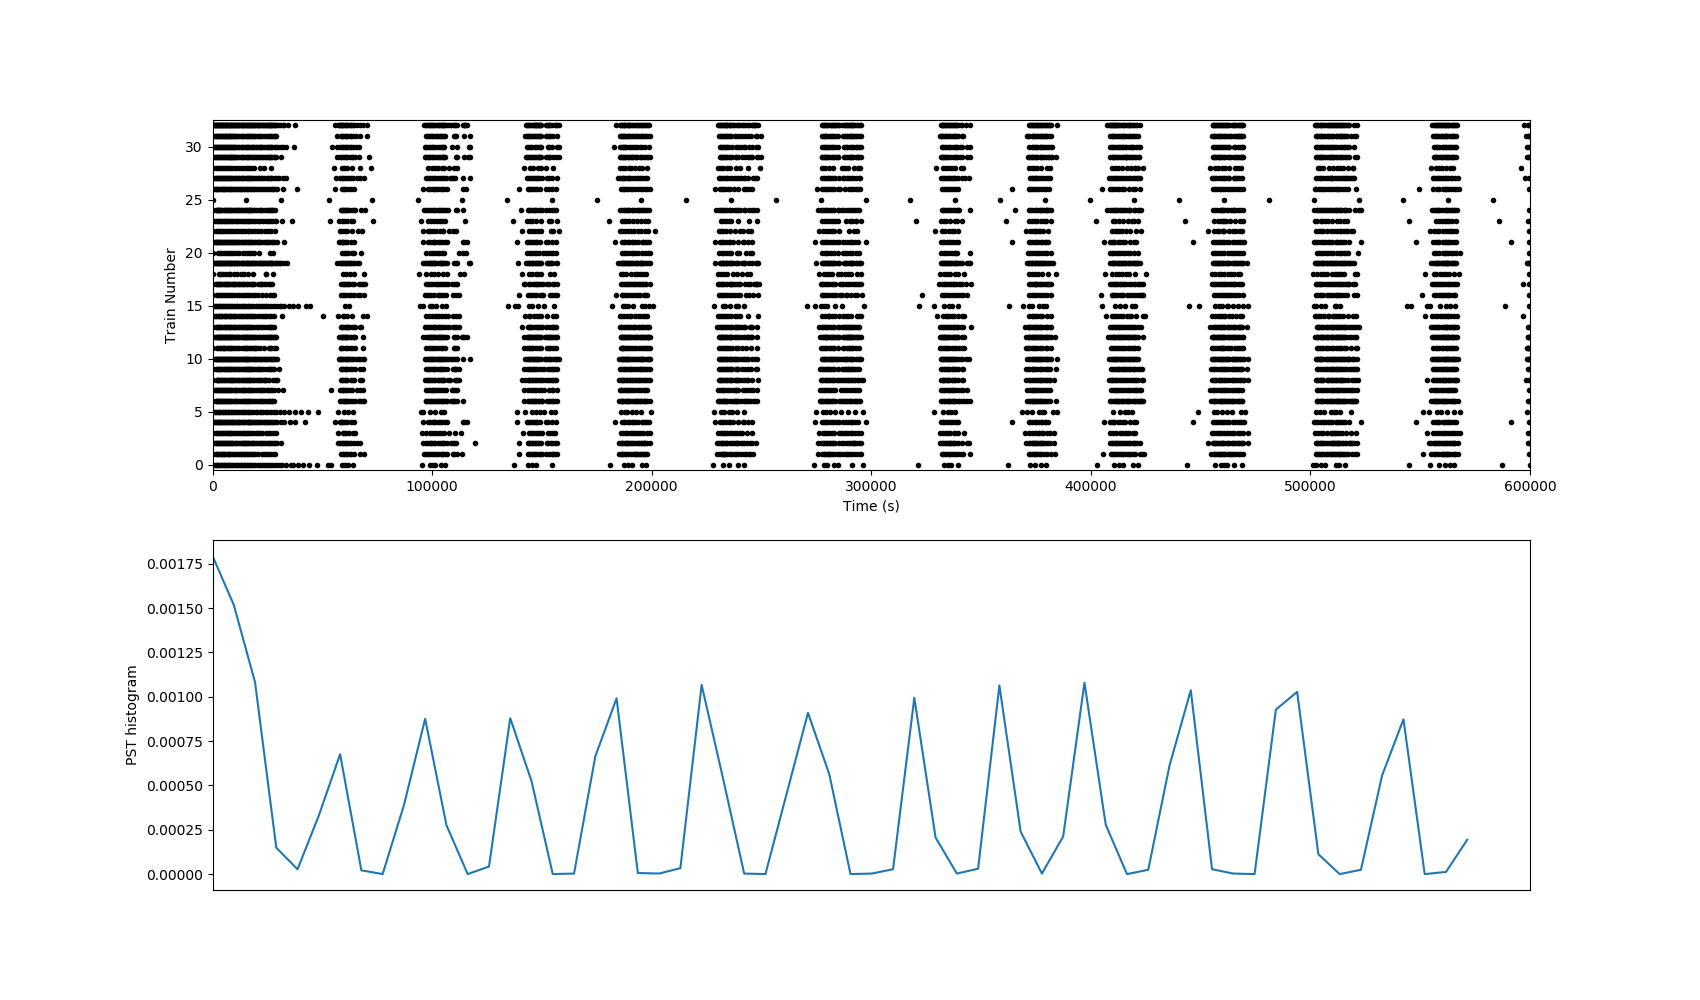
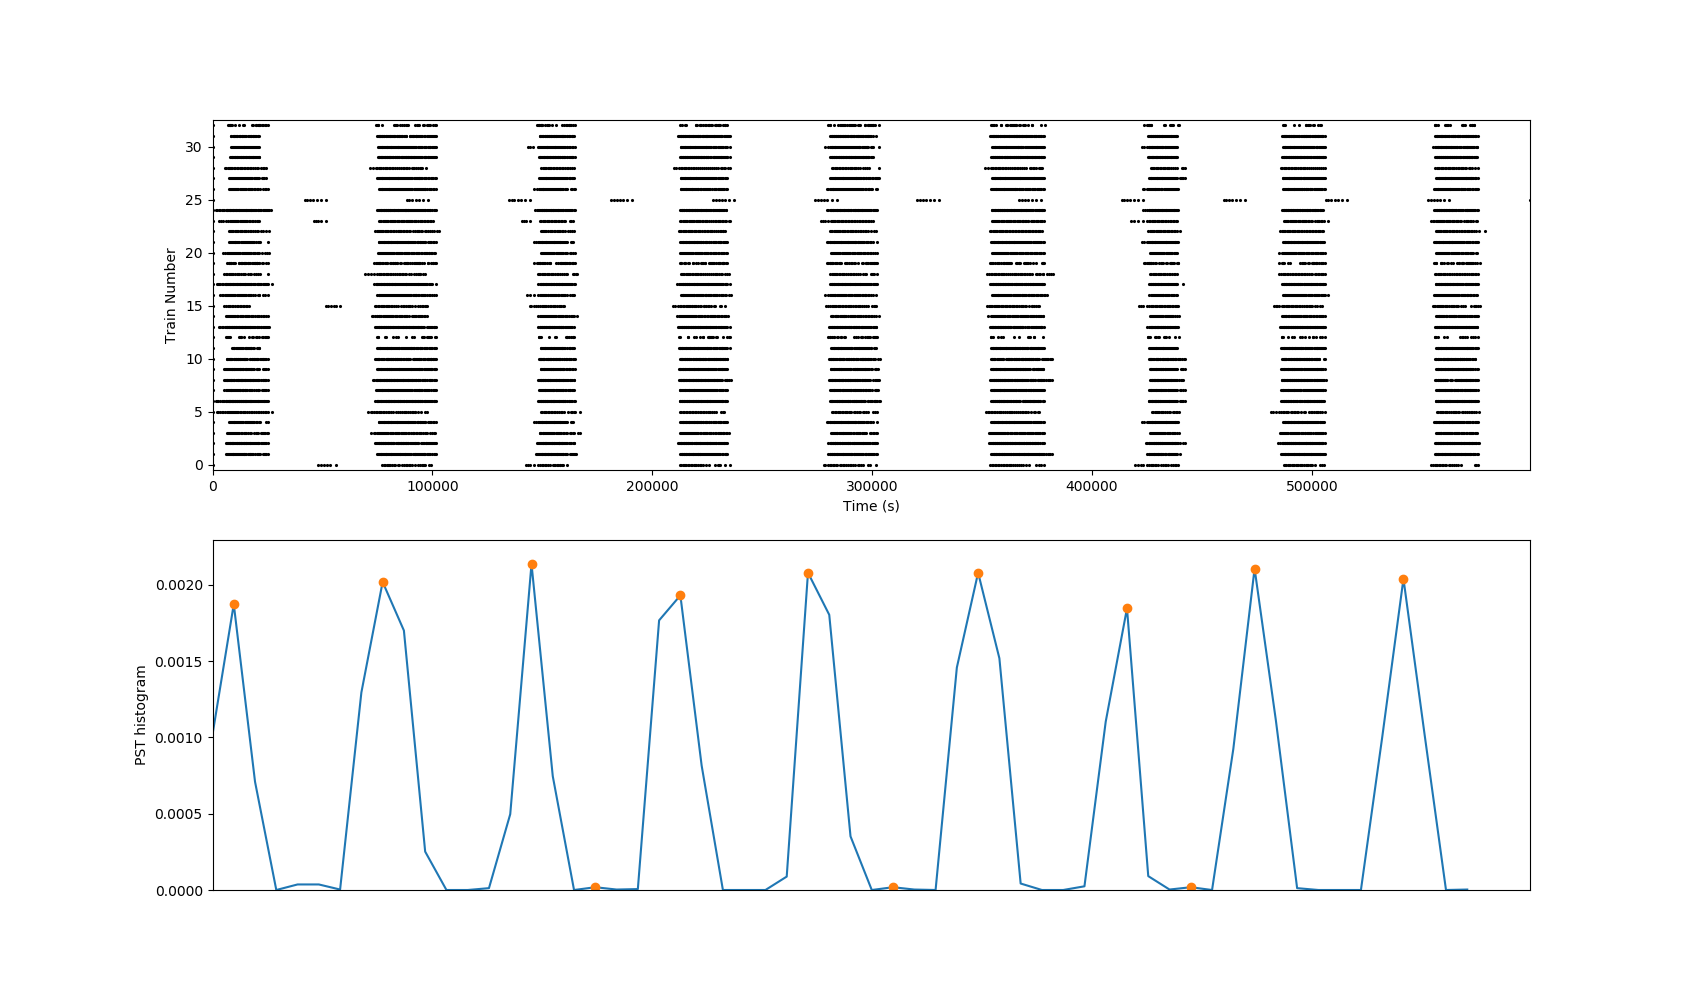
change paramters to fit a paper lmao

diff --git a/code/SPIKE/ablate.py b/code/SPIKE/ablate.py
@@ -167,8 +167,10 @@ M = StateMonitor(G, ['x', 'y', 'z'], record=True)
 
 ix = -0.5*(1+sqrt(5))
 init_cond = {'x': ix, 'y': 1-5*ix*ix, 'z': 1.7}
-neuron_pars = {'a': 1, 'b': 3.3, 'I': 2, 'c': 1, 'd': 5, 'r': 0.001, 's': 4, 'xR': -0.5*(1+sqrt(5))}
-coupling_pars = {'Vo': 2, 'lam': 10, 'thet': -0.2, 'g': 0.4}        # I've been changing g a lot....
+neuron_pars = {'a': 1, 'b': 3, 'I': 1.75, 'c': 1, 'd': 5, 'r': 0.001, 's': 4, 'xR': -0.5*(1+sqrt(5))}
+coupling_pars = {'Vo': 2, 'lam': 10, 'thet': -0.2, 'g': 0.4}
+# neuron_pars = {'a': 1, 'b': 3.3, 'I': 2, 'c': 1, 'd': 5, 'r': 0.001, 's': 4, 'xR': -0.5*(1+sqrt(5))}
+# coupling_pars = {'Vo': 2, 'lam': 10, 'thet': -0.2, 'g': 0.4}
 
 # These set the parameters to be homogeneous
 for param,value in neuron_pars.items():

diff --git a/code/analysis/bif.py b/code/analysis/bif.py
@@ -11,8 +11,9 @@ x1 = -0.5*(1+sqrt(5))
 x = x1
 y = 1-5*x*x
 
-# pars = {'a': 1, 'b': 3, 'I': 5, 'g': 0, 'Vo': 2, 'lam': 10, 'thet': -0.6, 'c': -3, 'd': 5, 'r': 0.002, 's': 4, 'x1': -1.3}      # these params burst with g=0
-pars = {'a': 1, 'b': 3, 'I': 2, 'g': 0, 'Vo': 2, 'lam': 10, 'thet': -0.6, 'c': 1, 'd': 5, 'r': 0.001, 's': 4, 'x1': -1.6}
+pars = {'a': 1, 'b': 3, 'I': 1.75, 'g': 0.4, 'Vo': 2, 'lam': 10, 'thet': -0.2, 'c': 1, 'd': 5, 'r': 0.001, 's': 4, 'x1': -0.5*(1+sqrt(5))}
+# neuron_pars = {'a': 1, 'b': 3, 'I': 1.75, 'c': 1, 'd': 5, 'r': 0.001, 's': 4, 'xR': -0.5*(1+sqrt(5))}
+
 
 icdict = {'x': x, 'y': y, 'z': pars['I']}
 

diff --git a/code/SPIKE/plotspikehist.py b/code/SPIKE/plotspikehist.py
@@ -35,7 +35,7 @@ th.plot_raster(st, markersize=2.5)
 
 # histogram for spikes
 simulation.add_subplot(2,1,2)
-bin = 1300
+bin = 10000
 spikeHist = th.psth(st, bin)
 # spikeHist = th.psth(st, duration/1000)
 plt.plot(spikeHist[0])
